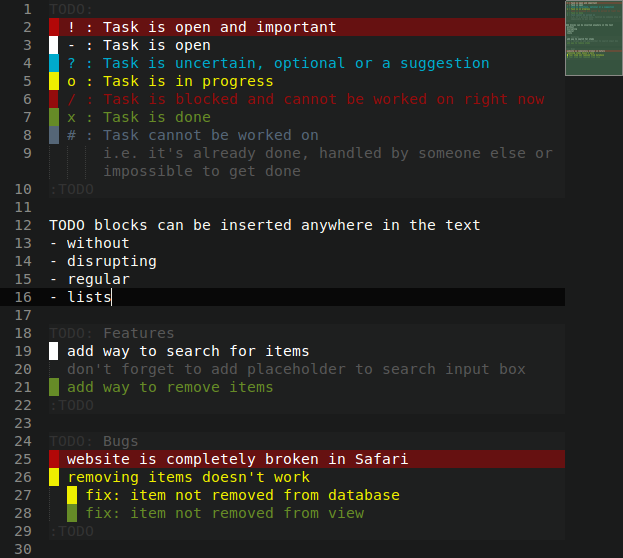
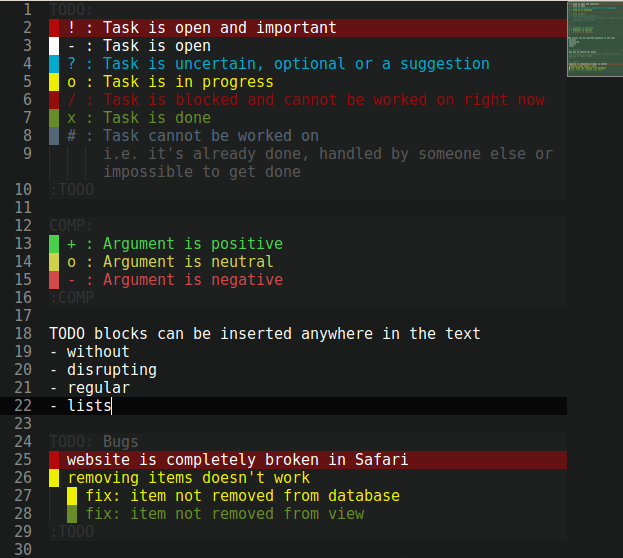
Added COMP block

diff --git a/README.md b/README.md
@@ -1,14 +1,16 @@
 # TODO file syntax
 
-[Sublime Text 3][st3] syntax definition and color scheme for plain text files containing lists of tasks that need to be done (i.e. ToDos). The Sublime Text color scheme is based on [FreshCut by Dayle Rees][freshcut].
+[Sublime Text 3][st3] syntax definition and color scheme for plain text files containing lists of tasks that need to be done (i.e. ToDos) and pro/con lists. The Sublime Text color scheme is based on [FreshCut by Dayle Rees][freshcut].
 
 ![Sublime Text 3 screenshot](screenshots/sublime.png)
 
 ### Syntax
 
-Start a TODO block using `TODO:`, optionally followed by a title, as its first line. Finally, you can end the TODO block using `:TODO` as the last line.
+Start a block using `NAME:`, optionally followed by a title, as its first line. Finally, you can end the block using `:NAME` as the last line.
 
-Within the TODO block you can add tasks that start with one of the characters below followed by a whitespace:
+Within the block you can add items that start with a character (see below for list) followed by a whitespace.
+
+#### TODO Block
 
 - `!`: Task is open and important
 - `-`: Task is open
@@ -17,6 +19,12 @@ Within the TODO block you can add tasks that start with one of the characters be
 - `/`: Task is blocked and cannot be worked on right now
 - `x`: Task is done
 - `#`: Task cannot be worked on (i.e. it's already done, handled by someone else or impossible to get done)
+
+#### COMP Block
+
+- `+`: Argument is positive
+- `o`: Argument is neutral
+- `-`: Argument is negative
 
 ## Installation
 
